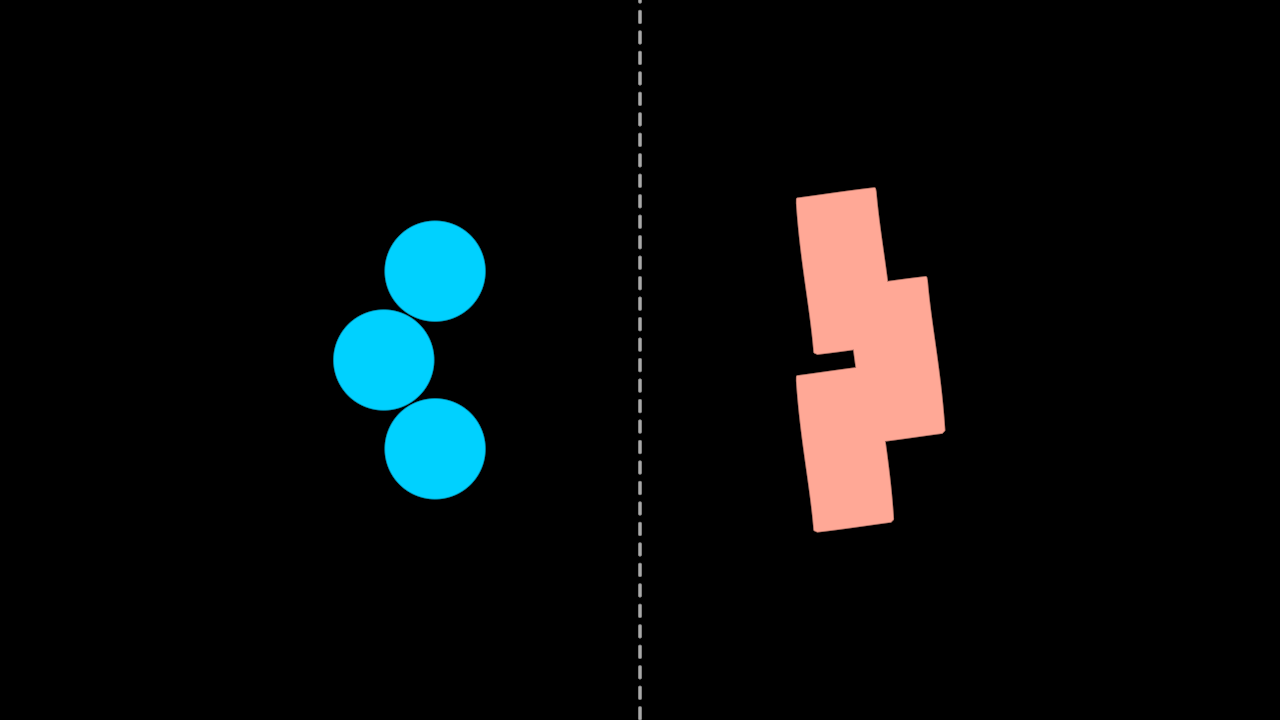
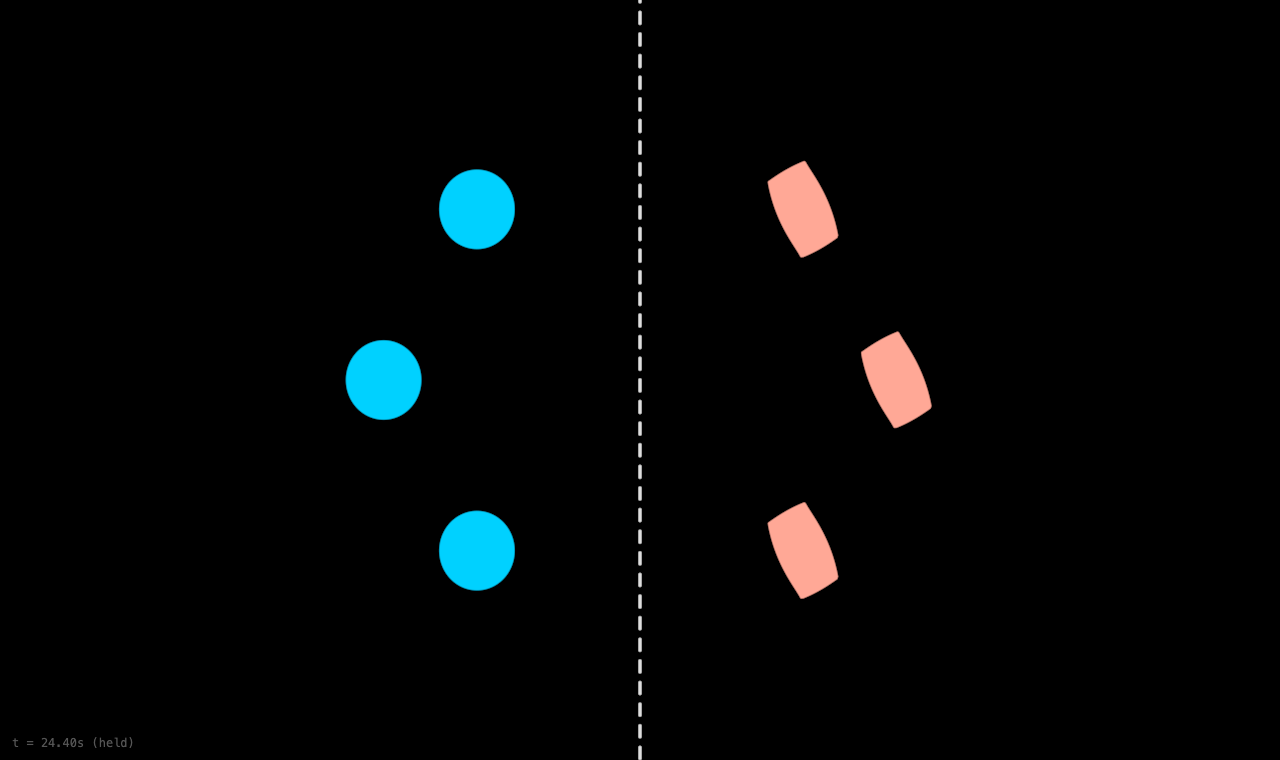
Vocabulary README: Abilities become their own table — a different KIND of entry
o6-morph's parting improvement: an ability is not a symbol you
instantiate but a capability the whole space gains by importing it —
so it gets its own section, seeded with Morph and ready for Write,
steering, Trace. Face updated to the cleaner mid-becoming frame.

Claude-Session: https://claude.ai/code/session_01DHfKiDSTv6bYtfG5NPp6Hd

Changed region(s): [[0.5938, 0.2139, 0.75, 0.7944], [0.25, 0.2139, 0.4062, 0.7944], [0.0312, 0.9778, 0.0625, 1.0]]

diff --git a/core/vocabulary/README.md b/core/vocabulary/README.md
@@ -41,13 +41,21 @@ Eye · Cylinder · Axes ──── the video-01 vocabulary (leaf symbols)
 | [Sketch](Sketch/) | david portrait, `?scene=sketch` | primitives (geometry/svg; 32 assets) | svg tests (37 subpaths); o1/o2 composites |
 | [Logo](Logo/) | finished mark, `?scene=o09` | primitives | o3 scores 30/30 + 25/26; logo tests (Cramer) |
 | [System](System/) | gears+icon, `?scene=o03` | Sketch (six assets) | o5: 16/16 pixel-exact layout predictions; system tests |
-| [Morph](Morph/) | mid-morph, `?scene=o01` t≈25 | THE FIRST ABILITY MODULE — importing it grafts `.morphTo()` onto every Stroke | o6 scenes + 46 morph/ability tests; f_00190 leaning-quads vindication |
-| [Morph](Morph/) | circle mid-becoming-rectangle, `?scene=o01` | primitives (+geometry/morph) | morph tests (46, incl. the graft + gate); Scene01's six morphs |
 
-The last row is not a noun. **Morph is the first pluggable ABILITY** — a
-verb rather than a thing, which contributes no geometry of its own and
-instead teaches every `Stroke` in the process to morph when the module is
-imported (docs/DECISIONS.md 2026-09-07, "Abilities are pluggable
-DreamNodes"). Its folder is the TEMPLATE every later ability copies:
-`Write`, steering behaviours, `Trace`. See [Morph/README.md](Morph/) for
-the pattern's seven rules.
+## Abilities
+
+One entry so far, and it is a different KIND of thing: not a symbol you
+instantiate but a capability the whole space gains by importing it.
+
+| Ability | Grafts | Onto | Proven by |
+|---|---|---|---|
+| [Morph](Morph/) | `.morphTo()` + the `Morph` verb | every `Stroke` | face: mid-morph, `?scene=o01` t=24.4; Scene01's six simultaneous morphs; 46 morph tests |
+
+An ability is a self-contained DreamNode in `vocabulary/<Ability>/` that
+grafts itself onto all eligible objects when imported — TS declaration
+merging plus prototype augmentation, the one sanctioned side-effect
+import (DECISIONS.md 2026-09-07, "Abilities are pluggable DreamNodes").
+Pure mathematics stays in `src/geometry/`; math is infrastructure, not
+ability. `Morph/README.md` §"The template" is what the next one copies —
+its seven rules are the pattern every later ability (`Write`, steering
+behaviours, `Trace`) inherits.

diff --git a/core/vocabulary/Morph/README.md b/core/vocabulary/Morph/README.md
@@ -1,8 +1,17 @@
 # Morph — the first pluggable ability
 
+![Morph](Morph.png)
+
 One shape becoming another. Import this module and every `Stroke` in the
 process learns `.morphTo()`; don't, and nothing in the framework has ever
 heard of morphing.
+
+The face is Scene01 at t = 24.4s, mid-morph: three blue circles on the
+left, and on the right three shapes that are no longer circles and not
+yet rectangles — bowed, leaning, each skewed differently. A noun's face
+shows the finished thing; an ability's face has to show the *becoming*,
+because the becoming is what it contributes. Those leans are also the
+correspondence proof — see below.
 
 ```ts
 import { Morph, MorphShape } from "../../vocabulary/Morph/Morph"
